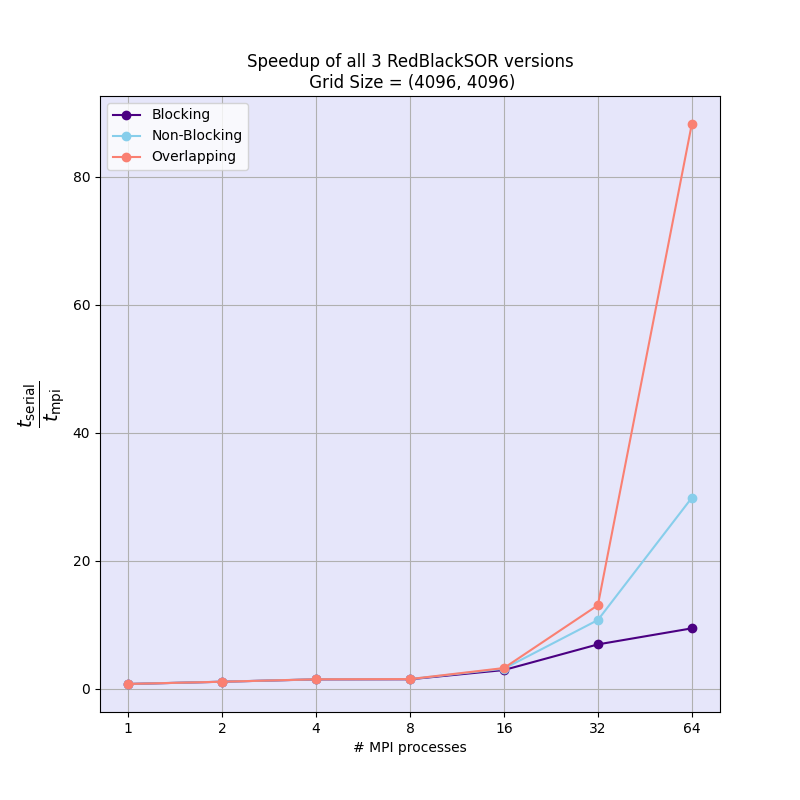
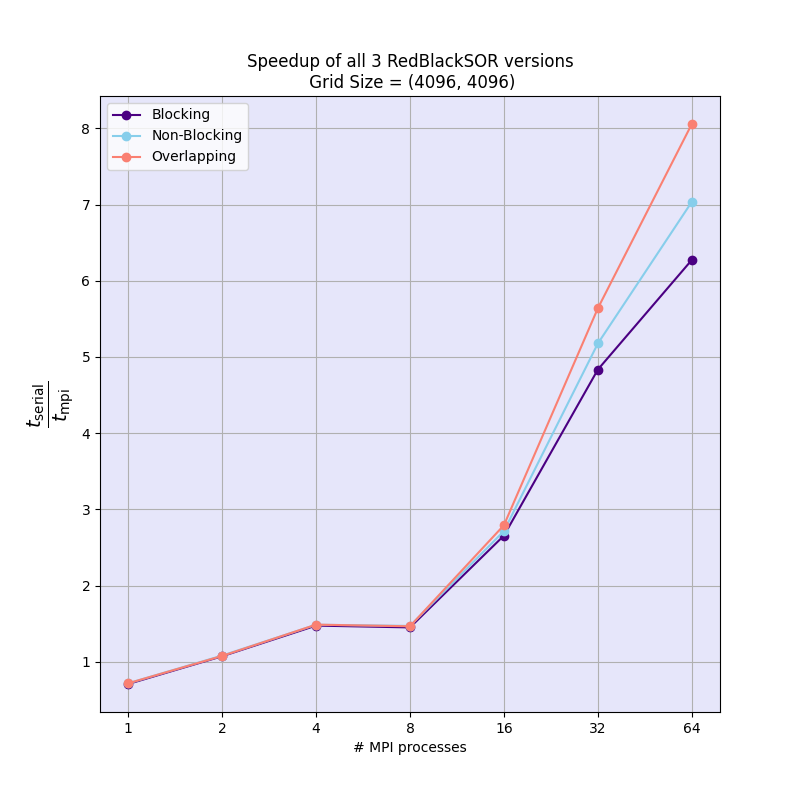
fixed speedups

diff --git a/a4/heat_transfer/results/parlab/red_black_iter.py b/a4/heat_transfer/results/parlab/red_black_iter.py
@@ -5,7 +5,7 @@ import matplotlib.pyplot as plt
 total_times = []
 computation_times = []
 communication_times = []
-t_serial = 13.187065
+t_serial = [float(13.187065), float(52.874210), float(118.278895)]
 
 with open("red_black_iter.out", "r") as file:
     lines = file.readlines()
@@ -83,7 +83,7 @@ def plot_speedups(time_vecs, grid, type_index):
     plt.gca().set_facecolor("#e6e6fa") 
     x = np.linspace(0, 6, 7)
     for i in range(0,3):
-        plt.plot(x,[t_serial/j for j in time_vecs[i]], marker='o', color=colors[i], label=version[i])
+        plt.plot(x, [t_serial[grid]/j for j in time_vecs[i]], marker='o', color=colors[i], label=version[i])
     
     plt.xlabel("# MPI processes")
     plt.ylabel(r"$\frac{t_{\text{serial}}}{t_{\text{mpi}}}$", fontsize=20, fontweight='bold')
@@ -98,10 +98,13 @@ total_grid1 = [impl1_total_grid1, impl2_total_grid1, impl3_total_grid1]
 total_grid2 = [impl1_total_grid2, impl2_total_grid2, impl3_total_grid2]
 total_grid3 = [impl1_total_grid3, impl2_total_grid3, impl3_total_grid3]
 
+print("Total Grid 1:", total_grid1)
+print("Total Grid 2:", total_grid2)
+print("Total Grid 3:", total_grid3)
 #plot speedups first
 plot_speedups(total_grid1,0,0)
-plot_speedups(total_grid1,1,0)
-plot_speedups(total_grid1,2,0)
+plot_speedups(total_grid2,1,0)
+plot_speedups(total_grid3,2,0)
 
 plot_times(total_grid1, 0, 0)
 plot_times(total_grid2, 1, 0)

diff --git a/a4/heat_transfer/results/parlab/red_black.py b/a4/heat_transfer/results/parlab/red_black.py
@@ -2,6 +2,8 @@ import re
 import matplotlib.pyplot as plt
 import numpy as np
 
+t_serial = 2.456144
+
 # Define regex patterns
 grid_pattern = re.compile(r"Grid = \((\d+),(\d+)\)")
 implementation_pattern = re.compile(r"RedBlack SOR with (.+):")
@@ -88,7 +90,7 @@ plt.xlabel("Grid Size")
 plt.ylabel("Total Time (s)")
 plt.title("Total Execution Time for all 3 RedBlackSOR Implementations")
 plt.legend()
-plt.savefig("red_black_toatl.png")
+plt.savefig("red_black_total.png")
 plt.show()
 
 # Plot 2: Communication Times
@@ -107,3 +109,5 @@ plt.title("Communication Time for all 3 RedBlackSOR Implementations")
 plt.legend()
 plt.savefig("red_black_comm.png")
 plt.show()
+
+    
